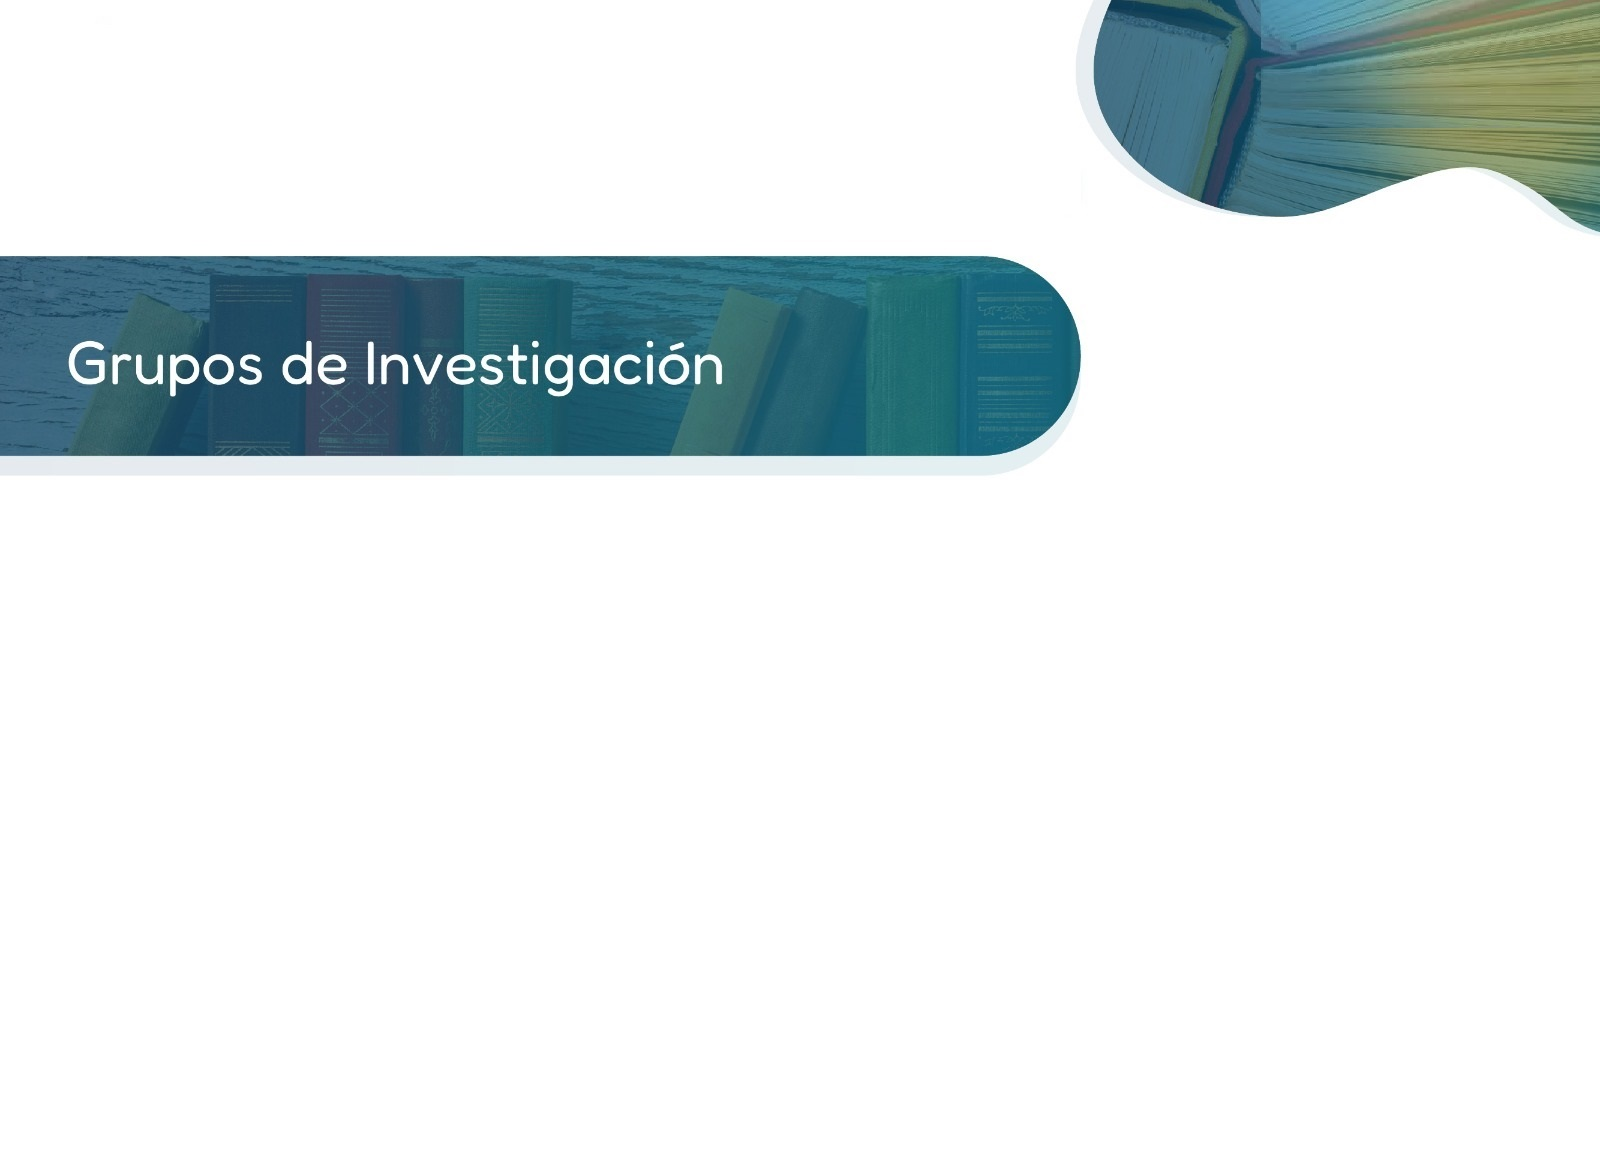
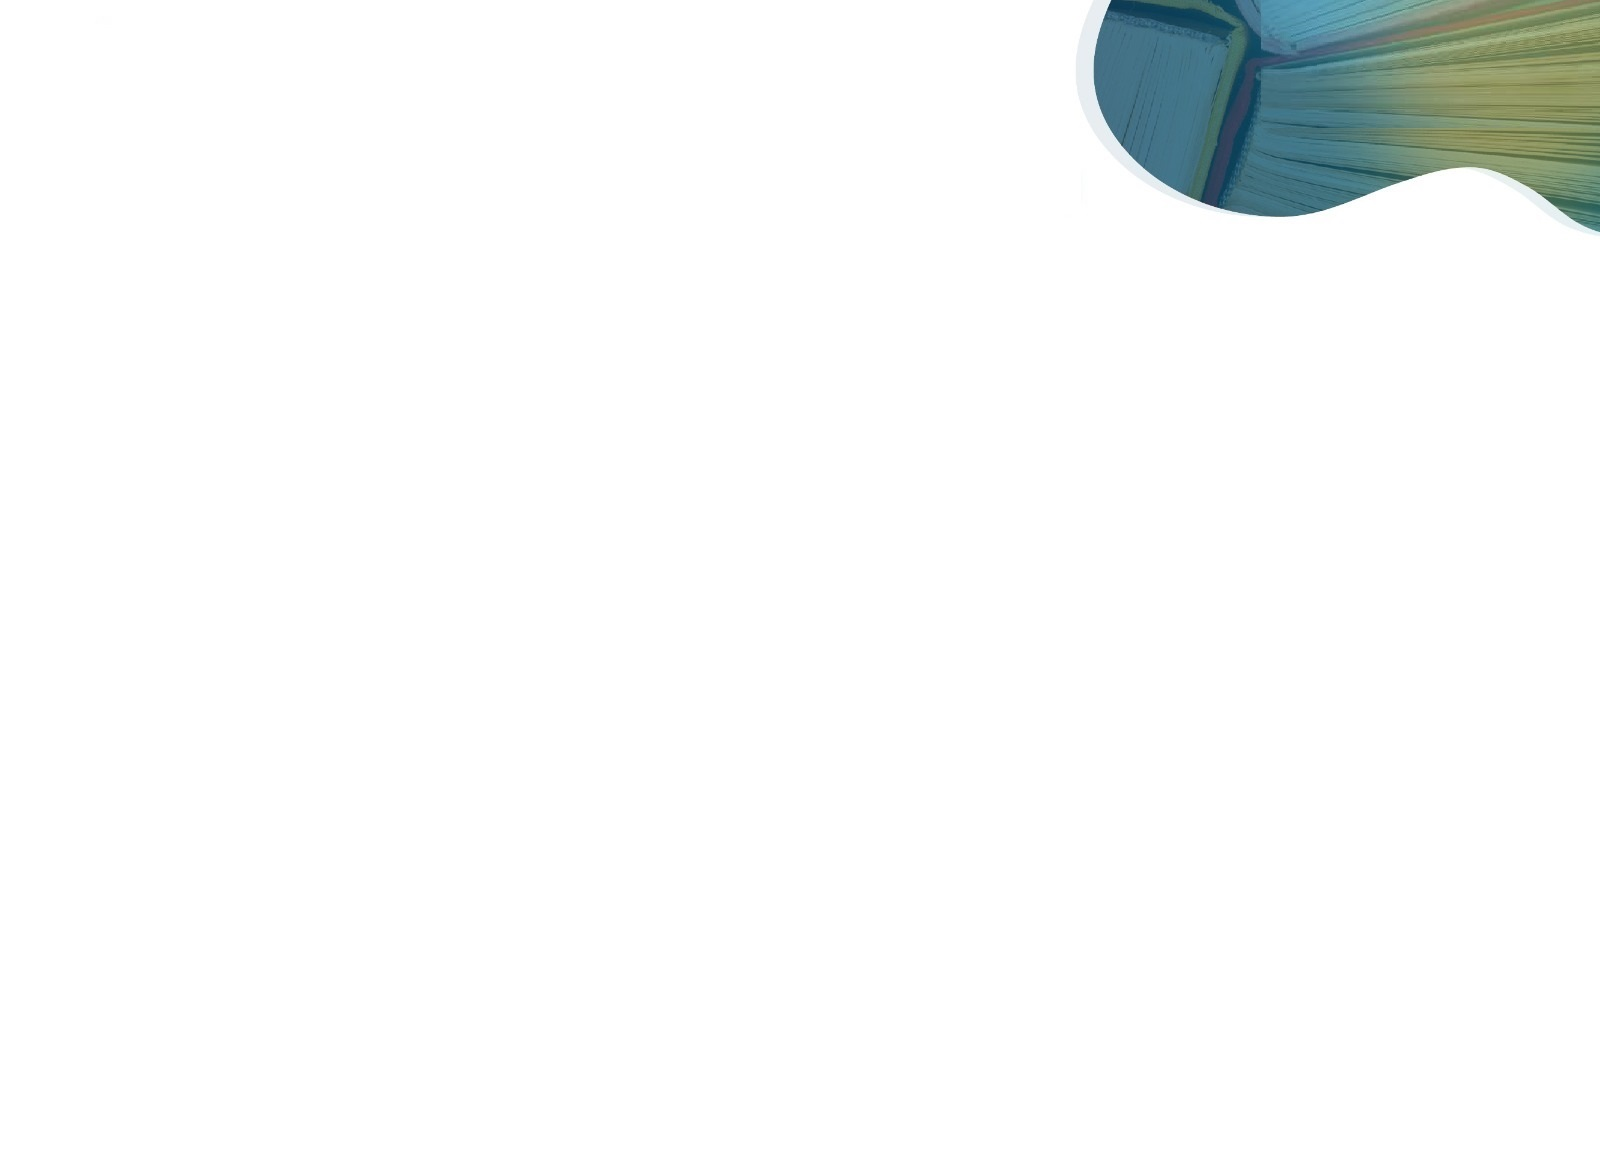
nuevos cambios 2 plantillas

Changed region(s): [[0.0, 0.2158, 0.6875, 0.4315]]

diff --git a/DjangoUniApp/Templates/DjangoUniApp/resultados.html b/DjangoUniApp/Templates/DjangoUniApp/resultados.html
@@ -29,26 +29,32 @@
             <a class="boton transparente"  target="blank" ><h2 class="blanco">Mi Perfil</h2>
             <a href="#"><img class="imgfooter3" src="{% static 'DjangoUniApp/img/logos/user.png'%}" alt=""></a>
         </div>
+      </ul>
+    </nav>
+  </header>      
         <div >
-            <table id="tabla2">
+            <table class="tabla2">
                 <tr>
                   <th><a class="boton large btn btn-outline-light btn-floating m-1 enlaces"  target="blank" href="#">Investigacion en Servicio Escrito</a></th>
                   <th><a class="boton large btn btn-outline-light btn-floating m-1 enlaces"  target="blank" href="#">Formacion Investigativa</a></th>
                   <th><a class="boton large btn btn-outline-light btn-floating m-1 enlaces"  target="blank" href="#">Grupo</a></th>
                   <th><a class="boton large btn btn-outline-light btn-floating m-1 enlaces"  target="blank" href="#">Convocatoria</a></th>
+                  <th><fieldset class="busquedas">
+                    <input class="buscar large" type="search" id="search" placeholder="Buscar ...">
+                    <a class="btn enlaces busqueda " href="#" target="_blank">
+                    <img class="imgfooter2" src="{% static 'DjangoUniApp/img/logos/lupa.png'%}" alt=""></a>
+                  </fieldset></th>
                 </tr>
             </table>
         </div>
-          <fieldset class="busquedas">
-            <input class="buscar large" type="search" id="search" placeholder="Buscar ...">
-            <a class="btn enlaces busqueda " href="#" target="_blank">
-            <img class="imgfooter2" src="{% static 'DjangoUniApp/img/logos/lupa.png'%}" alt=""></a>
-          </fieldset>
-
-        
-          <h4>0 numero de resultados para:</h4>
-          <h4>Busqueda en la coleccion completa del siumar:</h4>
-        <table class="tabla2">  
+        <div class="contenedor">
+          <img class="imgfooter" src="{% static 'DjangoUniApp/img/imgnuevas/piezaletrero .png'%}" />
+          <div class="centrado"><h1 class="tamano">RESULTADOS DE BUSQUEDA</h1></div>
+        </div>
+        <div class="resu"><h4>0 numero de resultados para:</h4>
+          <h4>Busqueda en la coleccion completa del siumar:</h4></div>
+          
+        <table class="tabla3">  
           <tr>
             <th class="th2">
               <img class="imgHeader2" src="{% static 'DjangoUniApp/img/BUSCOPOLI-03.jpg'%}" alt="imagen 2">
@@ -74,8 +80,5 @@
             </th>  
           </tr>  
         </table>
-      </ul>
-    </nav>
-  </header>
 </body>
 </html>

diff --git a/DjangoUniApp/Templates/DjangoUniApp/grupos.html b/DjangoUniApp/Templates/DjangoUniApp/grupos.html
@@ -29,8 +29,11 @@
             <a class="boton transparente"  target="blank" ><h2 class="blanco">Mi Perfil</h2>
             <a href="#"><img class="imgfooter3" src="{% static 'DjangoUniApp/img/logos/user.png'%}" alt=""></a>
         </div>
+      </ul>
+    </nav>
+  </header>      
         <div >
-            <table id="tabla2">
+            <table class="tabla2">
                 <tr>
                   <th><a class="boton large btn btn-outline-light btn-floating m-1 enlaces"  target="blank" href="#">Investigacion en Servicio Escrito</a></th>
                   <th><a class="boton large btn btn-outline-light btn-floating m-1 enlaces"  target="blank" href="#">Formacion Investigativa</a></th>
@@ -39,7 +42,10 @@
                 </tr>
             </table>
         </div>
-        <div id="main-container">
+        <div class="contenedor">
+          <img class="imgfooter" src="{% static 'DjangoUniApp/img/imgnuevas/piezaletrero .png'%}" />
+          <div class="centrado"><h1 class="tamano">GRUPOS DE INVESTIGACION</h1></div>
+        </div>
           <table class="tabla">
             <thead >
               <th>Codigo</th>
@@ -64,37 +70,8 @@
               <td></td>
               <td></td>
             </tr>
-            
         </table>
         </div>
-      </ul>
-    </nav>
-  </header>
-  
-  <!-- <div class="container">
-    <div class="cat2">
-      <form action="javascript:void(0);" method="get">			
-        <fieldset class="busquedas">
-          <input class="buscar" type="search" id="search" placeholder="Buscar ...">
-          <a class="btn enlaces busqueda" href="#" target="_blank">
-            <img class="imgfooter2" src="{% static 'DjangoUniApp/img/logos/lupa.png'%}" alt=""></a>
-        </fieldset>
-      </form>
-      <div style="margin-bottom: 10px;" >
-        <a class="boton large btn btn-outline-light btn-floating m-1 enlaces" href="#" target="_blank">investigacion en servicio escrito</a>
-      </div>
-      <div style="margin-bottom: 10px;">
-        <a class="boton large btn btn-outline-light btn-floating m-1 enlaces" href="#" target="_blank" >Convocatorias</a>
-      </div>
-      <div style="margin-bottom: 10px;">
-        <a class="boton orange large btn btn-outline-light btn-floating m-1 enlaces" href="#" target="_blank" >Grupos</a>
-      </div>
-    </div>
-  </div> -->
-
 </body>
-
-
-
 </html>
 

diff --git a/DjangoUniApp/static/DjangoUniApp/css/gestionResultados.css b/DjangoUniApp/static/DjangoUniApp/css/gestionResultados.css
@@ -51,9 +51,9 @@ body {
     box-shadow: 2px 2px 0px #373c3c;
   }
   
-   .boton.large{
-    font-size: 14px;
-    width: 311px;
+  .boton.large{
+    font-size: 80%;
+    width: 100%;
     padding-top: 0;
     padding-bottom: 0;
   }
@@ -67,11 +67,19 @@ body {
 
   .tabla2{
     width: 90%;
-    margin-top: 5%;
-    margin-right: 10%;
     text-align: left;
     background-color: transparent;
+    border-collapse: collapse;
+    padding-top: 25%;
+    margin-top: 7%;
+  }
 
+  .tabla3{
+    width: 100%;
+    text-align: left;
+    background-color: transparent;
+    border-collapse: collapse;
+    margin-top: 0%;
   }
 
   th, td{
@@ -98,14 +106,16 @@ body {
     box-shadow: 0px 0px 0px #373c3c;
   }
   
-  .imgHeader{
-    width: 14%;
-    margin-right: 73%;
-  }
-
+  
   .imgHeader2{
     width: 100%;
     margin-right: 0%;
+  }
+
+  .imgHeader{
+    width: 15%;
+    margin-right: 40%;
+
   }
 
   header {
@@ -113,7 +123,8 @@ body {
     width: 100%;
     position: fixed;
     z-index: 100;
-    text-align: right;
+    text-align: center;
+    margin-top: -8%;
   }
   
   .container{
@@ -147,3 +158,65 @@ body {
     box-shadow: 2px 2px 0px #373c3c;
     margin-right: 10%;
   }
+
+  
+  .imgfooter{
+    width: 70%;
+  }
+  
+  .titulo{
+    width: 100%;
+  }
+
+  .contenedor{
+    position: relative;
+    display: inline-block;
+    text-align: left;
+}
+.texto-encima{
+    position: absolute;
+    top: 10%;
+    left: 10%;
+}
+.centrado{
+    position: absolute;
+    top: 50%;
+    left: 50%;
+    transform: translate(-50%, -50%);
+    color: #fff;
+    width: 10%;
+    width: 95%;
+    height: 45%;
+}
+
+.tamano{
+  width: 65%;
+  margin-left: 5%;
+  height: 74%;
+}
+
+.buscar{
+  text-decoration:none;
+  font-weight: 0;
+  font-size: 100%;
+  color:#333333;
+  padding-top:2%;
+  padding-bottom:2%;
+  padding-left:2%;
+  padding-right:18%;
+  background-color:#ffffff;
+  border-color: #ffffff;
+  border-width: 3%;
+  border-style: initial;
+  border-radius:10px;
+  box-shadow: 2px 2px 2px #373c3c;
+  width: 65%;
+}
+.busquedas{
+  width: 90%;
+  margin-left: 40%;
+}
+
+.resu{
+  text-align: center;
+}

diff --git a/DjangoUniApp/static/DjangoUniApp/css/gestionGrupos.css b/DjangoUniApp/static/DjangoUniApp/css/gestionGrupos.css
@@ -52,8 +52,8 @@ body {
   }
   
    .boton.large{
-    font-size: 14px;
-    width: 311px;
+    font-size: 80%;
+    width: 100%;
     padding-top: 0;
     padding-bottom: 0;
   }
@@ -64,6 +64,16 @@ body {
     background-color: rgb(212, 212, 212);
     border-collapse: collapse;
   }
+
+  .tabla2{
+    width: 65%;
+    text-align: left;
+    background-color: transparent;
+    border-collapse: collapse;
+    padding-top: 25%;
+    margin-top: 7%;
+  }
+
   th, td{
     padding: 2%;
   }
@@ -86,11 +96,13 @@ body {
   .boton.transparente{
     background-color:transparent;
     box-shadow: 0px 0px 0px #373c3c;
+    margin-left: 30%;
   }
   
   .imgHeader{
     width: 15%;
-    margin-right: 70%;
+    margin-right: 30%;
+
   }
 
   header {
@@ -98,7 +110,8 @@ body {
     width: 100%;
     position: fixed;
     z-index: 100;
-    text-align: right;
+    text-align: center;
+    margin-top: -8%;
   }
   
   .container{
@@ -133,4 +146,37 @@ body {
     margin-right: 10%;
   }
   
+  .imgfooter{
+    width: 70%;
+  }
   
+  .titulo{
+    width: 100%;
+  }
+
+  .contenedor{
+    position: relative;
+    display: inline-block;
+    text-align: left;
+}
+.texto-encima{
+    position: absolute;
+    top: 10%;
+    left: 10%;
+}
+.centrado{
+    position: absolute;
+    top: 50%;
+    left: 50%;
+    transform: translate(-50%, -50%);
+    color: #fff;
+    width: 10%;
+    width: 95%;
+    height: 45%;
+}
+
+.tamano{
+  width: 65%;
+  margin-left: 5%;
+  height: 74%;
+}

diff --git a/DjangoUniApp/views.py b/DjangoUniApp/views.py
@@ -4,6 +4,6 @@ from django.template import Template, Context
 
 def index (request):
    
-    return render(request, 'DjangoUniApp/home.html')
+    return render(request, 'DjangoUniApp/resultados.html')
 
     
